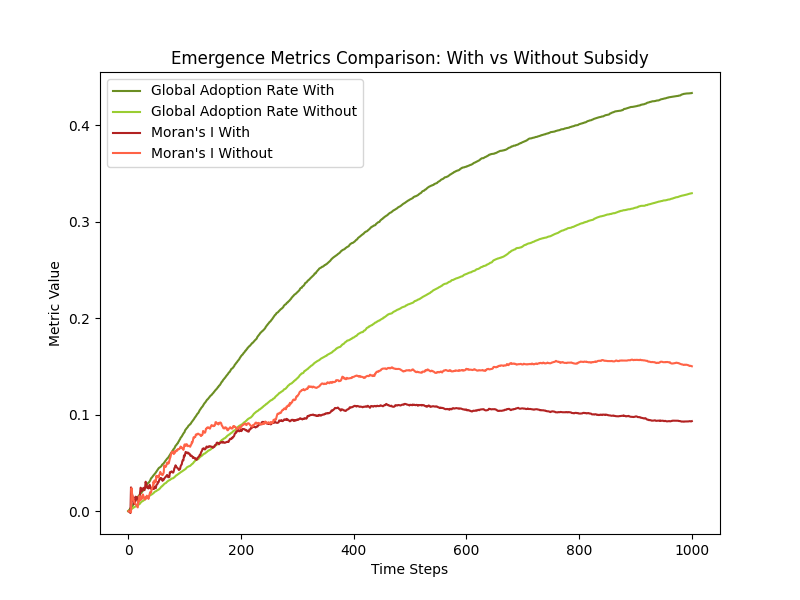
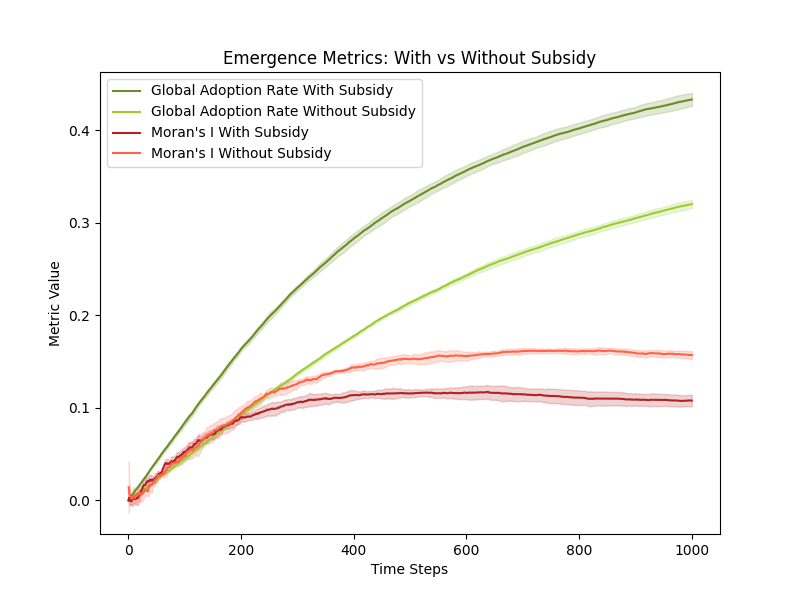
Refactor run_emergence.py to include multiple runs and confidence interval calculations

diff --git a/run_emergence.py b/run_emergence.py
@@ -2,6 +2,9 @@ import argparse
 from city import CityModel
 import matplotlib.pyplot as plt
 import warnings
+from scipy.stats import norm
+import numpy as np
+import pandas as pd
 warnings.filterwarnings("ignore", category=RuntimeWarning)
 
 
@@ -26,6 +29,7 @@ def run_model_comparison(args):
         beta7=args.beta7,
     )
 
+
     model_without_subsidy = CityModel(
         width=args.width,
         height=args.height,
@@ -44,39 +48,101 @@ def run_model_comparison(args):
 
     # Run both models
     model_with_subsidy.run_model(steps=args.max_steps)
+    print("Model with subsidy completed.")
     model_without_subsidy.run_model(steps=args.max_steps)
+    print("Model without subsidy completed.")
 
     # Create DataFrames
     df_with = model_with_subsidy.datacollector.get_model_vars_dataframe()
     df_without = model_without_subsidy.datacollector.get_model_vars_dataframe()
 
-    # Save CSVs
-    df_with.to_csv("csv/results_with_subsidy.csv", index=False)
-    df_without.to_csv("csv/results_without_subsidy.csv", index=False)
+    return df_with, df_without
 
-    # Plot emergence metrics
+def run_multiple_times(args):
+
+    z = norm.ppf(0.975)  # for 95% confidence interval
+    n_runs = 50          # number of replicates
+
+    # Collect all replicates
+    dfs_with = []
+    dfs_without = []
+
+    for i in range(n_runs):
+        print(f"Running replicate {i+1}/{n_runs}")
+        df_with, df_without = run_model_comparison(args)
+        
+        dfs_with.append(df_with.reset_index(drop=True))
+        dfs_without.append(df_without.reset_index(drop=True))
+    return dfs_with, dfs_without, z, n_runs
+
+def compute_mean_ci(dfs, z, n_runs):
+    combined = pd.concat(dfs, axis=1)
+    # Group columns: each metric appears n_runs times, so we average every n-th column set
+    means = pd.concat([combined.iloc[:, i::len(dfs[0].columns)].mean(axis=1) for i in range(len(dfs[0].columns))], axis=1)
+    stds = pd.concat([combined.iloc[:, i::len(dfs[0].columns)].std(axis=1) for i in range(len(dfs[0].columns))], axis=1)
+    cis = z * stds / np.sqrt(n_runs)
+    means.columns = dfs[0].columns
+    cis.columns = dfs[0].columns
+    return means, cis
+
+def plot_results(mean_with, mean_without, ci_with, ci_without):
     plt.figure(figsize=(8, 6))
-    plt.plot(df_with['Global Adoption Rate'], label='Global Adoption Rate With', color='olivedrab')
-    plt.plot(df_without['Global Adoption Rate'], label='Global Adoption Rate Without', color='yellowgreen')
-    plt.plot(df_with["Moran's I"], label='Moran\'s I With', color='firebrick')
-    plt.plot(df_without["Moran's I"], label='Moran\'s I Without', color='tomato')
-    plt.title("Emergence Metrics Comparison: With vs Without Subsidy")
+    plt.plot(mean_with['Global Adoption Rate'], label='Global Adoption Rate With Subsidy', color='olivedrab')
+    plt.plot(mean_without['Global Adoption Rate'], label='Global Adoption Rate Without Subsidy', color='yellowgreen')
+    plt.plot(mean_with["Moran's I"], label="Moran's I With Subsidy", color='firebrick')
+    plt.plot(mean_without["Moran's I"], label="Moran's I Without Subsidy", color='tomato')
+
+    # CI bands
+    plt.fill_between(mean_with.index,
+                    mean_with['Global Adoption Rate'] - ci_with['Global Adoption Rate'],
+                    mean_with['Global Adoption Rate'] + ci_with['Global Adoption Rate'],
+                    color='olivedrab', alpha=0.2)
+
+    plt.fill_between(mean_without.index,
+                    mean_without['Global Adoption Rate'] - ci_without['Global Adoption Rate'],
+                    mean_without['Global Adoption Rate'] + ci_without['Global Adoption Rate'],
+                    color='yellowgreen', alpha=0.2)
+
+    plt.fill_between(mean_with.index,
+                    mean_with["Moran's I"] - ci_with["Moran's I"],
+                    mean_with["Moran's I"] + ci_with["Moran's I"],
+                    color='firebrick', alpha=0.2)
+
+    plt.fill_between(mean_without.index,
+                    mean_without["Moran's I"] - ci_without["Moran's I"],
+                    mean_without["Moran's I"] + ci_without["Moran's I"],
+                    color='tomato', alpha=0.2)
+
+    plt.title("Emergence Metrics: With vs Without Subsidy")
     plt.xlabel("Time Steps")
     plt.ylabel("Metric Value")
     plt.legend()
-    plt.savefig("plots/emergence_metrics_comparison.png")
+    plt.savefig("plots/emergence_metrics_comparison3.png")
     plt.show()
 
     plt.figure(figsize=(8, 6))
-    plt.plot(df_with['Between-Class Gini'], label='Gini Coefficient With', color='royalblue')
-    plt.plot(df_without['Between-Class Gini'], label='Gini Coefficient Without', color='cornflowerblue')
+
+    plt.plot(mean_with['Between-Class Gini'], label='Gini Coefficient With Subsidy', color='royalblue')
+    plt.plot(mean_without['Between-Class Gini'], label='Gini Coefficient Without Subsidy', color='cornflowerblue')
+
+    plt.fill_between(mean_with.index,
+                    mean_with['Between-Class Gini'] - ci_with['Between-Class Gini'],
+                    mean_with['Between-Class Gini'] + ci_with['Between-Class Gini'],
+                    color='royalblue', alpha=0.2)
+
+    plt.fill_between(mean_without.index,
+                    mean_without['Between-Class Gini'] - ci_without['Between-Class Gini'],
+                    mean_without['Between-Class Gini'] + ci_without['Between-Class Gini'],
+                    color='cornflowerblue', alpha=0.2)
+
     plt.title("Gini Coefficient: With vs Without Subsidy")
     plt.xlabel("Time Steps")
     plt.ylabel("Gini Coefficient")
     plt.legend()
-    plt.savefig("plots/gini_coefficient_comparison.png")
+    plt.savefig("plots/gini_coefficient_comparison3.png")
     plt.show()
 
+     
 def main():
     parser = argparse.ArgumentParser(description="Run the solar panel adoption ABM with customizable parameters.")
     
@@ -96,7 +162,10 @@ def main():
     parser.add_argument('--beta7', type=float, default=0.6, help='Weight for housing type')
 
     args = parser.parse_args()
-    run_model_comparison(args)
+    dfs_with, dfs_without, z, n_runs = run_multiple_times(args)
+    means_with, ci_with = compute_mean_ci(dfs_with, z, n_runs)
+    means_without, ci_without = compute_mean_ci(dfs_without, z, n_runs)
+    plot_results(means_with, means_without, ci_with, ci_without)
 
 if __name__ == "__main__":
     main()

diff --git a/city.py b/city.py
@@ -6,7 +6,7 @@ from mesa.datacollection import DataCollector
 import random
 from emergence_analysis import compute_global_adoption, compute_clustering_score, compute_morans_I, gini_between_income_classes
 
-random.seed(42)  # For reproducibility
+#random.seed(42)  # For reproducibility
 
 class CityModel(Model):
     """ A city simulation model using the Mesa framework to represent households' decisions to adopt solar panels
@@ -189,7 +189,7 @@ class CityModel(Model):
         """Run the model for a specified number of steps."""
         for i in range(steps):
             self.step()
-            print(f"Step {i + 1}/{steps} completed.")
+            #print(f"Step {i + 1}/{steps} completed.")
             if not self.running:
                 break
 
